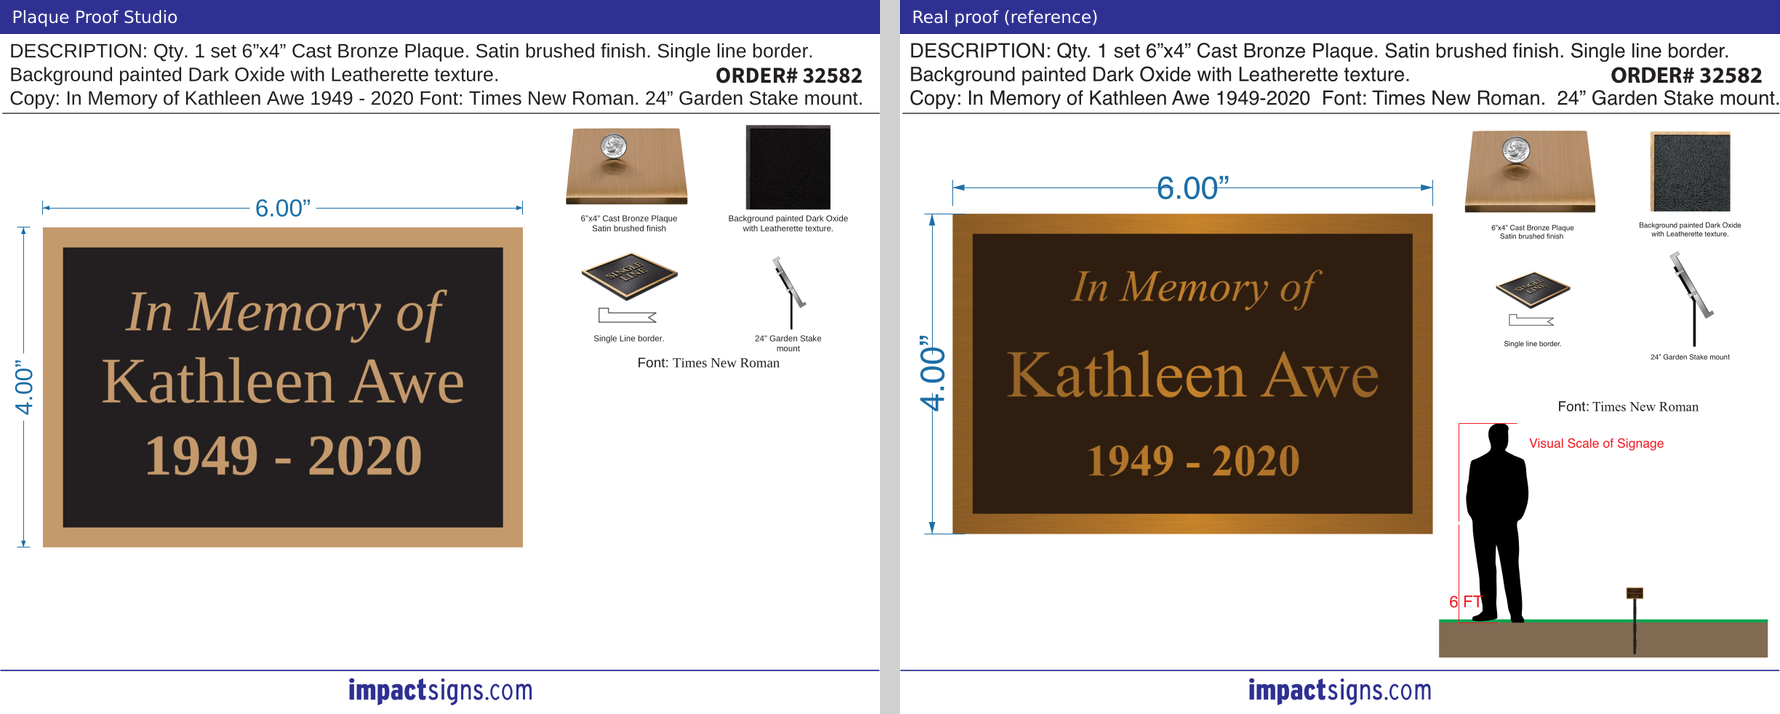
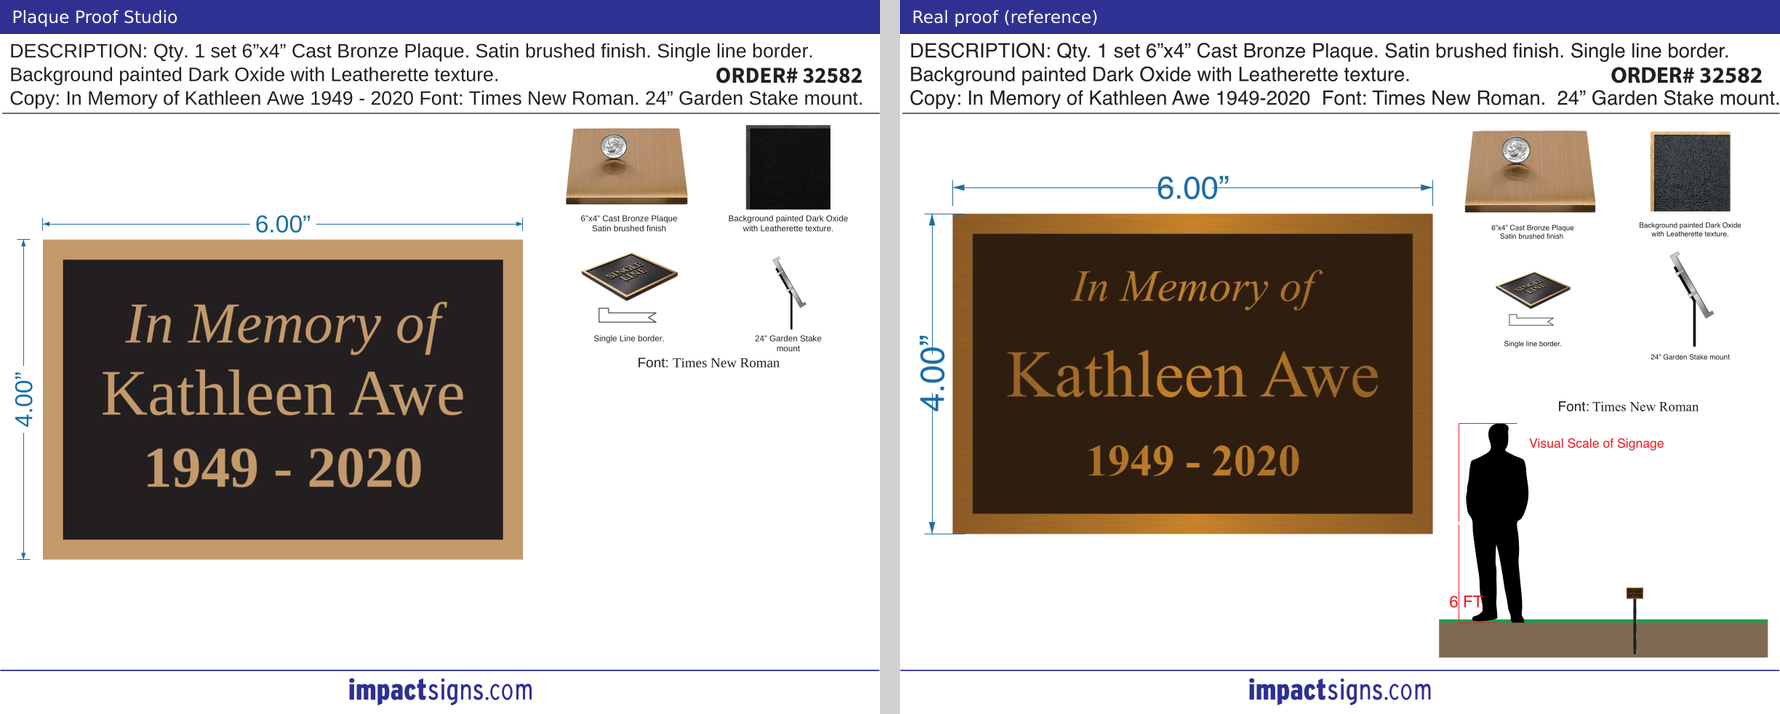
Keep Description-sheet width arrows and labels clear of the header and callout
The plaque box sat 11 pt too high, so the top dimension line and its label
collided with the header rule and description text on tall plaques. The box
is now the measured 101-557 pt, the width line sits 14 pt above it, labels
that cannot fit between their arrows step down in size, and the red minimum-
size callout is no longer covered by the option tiles.

Claude-Session: https://claude.ai/code/session_01FgTdpsUWDWm9pmiwR47UFk

diff --git a/server/pdf/proofs/description.ts b/server/pdf/proofs/description.ts
@@ -29,7 +29,7 @@ const HEADER_PITCH = 21.3;
 
 /** The plaque box of the real proofs with a right-hand panel: true size when it fits, centered at (254.6, 318). */
 export function descriptionPlaqueRect(widthIn: number, heightIn: number) {
-  const box = { cx: 254.6, cy: 318, maxW: 444, maxH: 456 };
+  const box = { cx: 254.6, cy: 329, maxW: 444, maxH: 456 };
   const s = Math.min(72, box.maxW / widthIn, box.maxH / heightIn);
   const w = widthIn * s;
   const h = heightIn * s;
@@ -107,31 +107,42 @@ export async function buildDescriptionProof(input: ProofInput): Promise<Buffer> 
   const r = descriptionPlaqueRect(spec.widthIn, spec.heightIn);
   const plaque = await plaqueJpg(doc, input.plaqueImage, r.w, r.h);
   page.drawImage(plaque, { x: r.x, y: Y(r.y + r.h), width: r.w, height: r.h });
-  const dimSize = 22;
+  // The width line sits well below the header rule (grey, 72-73.2) so its label never touches the header text.
+  // A label too long for a short span is stepped down until it fits between the arrows.
+  const DIM_SIZE = 22;
+  const DIM_GAP = 5; // line to label
+  const DIM_ARROW = 6;
+  const fitDim = (label: string, span: number) => {
+    let size = DIM_SIZE;
+    while (size > 9 && fonts.helv.widthOfTextAtSize(label, size) + 2 * (DIM_GAP + DIM_ARROW + 1) > span) size -= 0.5;
+    return size;
+  };
   // Top
-  const ty = r.y - 17.5;
+  const ty = r.y - 14;
   const wl = decimalLabel(spec.widthIn);
-  const wlw = fonts.helv.widthOfTextAtSize(wl, dimSize);
+  const wSize = fitDim(wl, r.w);
+  const wlw = fonts.helv.widthOfTextAtSize(wl, wSize);
   const midX = r.x + r.w / 2;
-  line(page, r.x, ty, midX - wlw / 2 - 5, ty, 0.5, COLORS.blue);
-  line(page, midX + wlw / 2 + 5, ty, r.x + r.w, ty, 0.5, COLORS.blue);
+  line(page, r.x, ty, midX - wlw / 2 - DIM_GAP, ty, 0.5, COLORS.blue);
+  line(page, midX + wlw / 2 + DIM_GAP, ty, r.x + r.w, ty, 0.5, COLORS.blue);
   line(page, r.x, ty - 6, r.x, ty + 6, 0.5, COLORS.blue);
   line(page, r.x + r.w, ty - 6, r.x + r.w, ty + 6, 0.5, COLORS.blue);
-  arrowhead(page, r.x, ty, -1, 0, 6, COLORS.blue);
-  arrowhead(page, r.x + r.w, ty, 1, 0, 6, COLORS.blue);
-  text(page, fonts.helv, wl, midX, ty + 7.6, dimSize, COLORS.blue, 'center');
+  arrowhead(page, r.x, ty, -1, 0, DIM_ARROW, COLORS.blue);
+  arrowhead(page, r.x + r.w, ty, 1, 0, DIM_ARROW, COLORS.blue);
+  text(page, fonts.helv, wl, midX, ty + wSize * 0.345, wSize, COLORS.blue, 'center');
   // Left (label reads bottom to top)
   const lx = r.x - 17.5;
   const hl = decimalLabel(spec.heightIn);
-  const hlw = fonts.helv.widthOfTextAtSize(hl, dimSize);
+  const hSize = fitDim(hl, r.h);
+  const hlw = fonts.helv.widthOfTextAtSize(hl, hSize);
   const midY = r.y + r.h / 2;
-  line(page, lx, r.y, lx, midY - hlw / 2 - 5, 0.5, COLORS.blue);
-  line(page, lx, midY + hlw / 2 + 5, lx, r.y + r.h, 0.5, COLORS.blue);
+  line(page, lx, r.y, lx, midY - hlw / 2 - DIM_GAP, 0.5, COLORS.blue);
+  line(page, lx, midY + hlw / 2 + DIM_GAP, lx, r.y + r.h, 0.5, COLORS.blue);
   line(page, lx - 6, r.y, lx + 6, r.y, 0.5, COLORS.blue);
   line(page, lx - 6, r.y + r.h, lx + 6, r.y + r.h, 0.5, COLORS.blue);
-  arrowhead(page, lx, r.y, 0, -1, 6, COLORS.blue);
-  arrowhead(page, lx, r.y + r.h, 0, 1, 6, COLORS.blue);
-  page.drawText(hl, { x: lx + dimSize * 0.36, y: Y(midY + hlw / 2), size: dimSize, font: fonts.helv, color: COLORS.blue, rotate: degrees(90) });
+  arrowhead(page, lx, r.y, 0, -1, DIM_ARROW, COLORS.blue);
+  arrowhead(page, lx, r.y + r.h, 0, 1, DIM_ARROW, COLORS.blue);
+  page.drawText(hl, { x: lx + hSize * 0.36, y: Y(midY + hlw / 2), size: hSize, font: fonts.helv, color: COLORS.blue, rotate: degrees(90) });
 
   // Minimum-letter-height callout (Raccoon River).
   const smallest = input.layout?.lines.reduce((a, b) => (b.size < a.size ? b : a), input.layout.lines[0]);
@@ -193,7 +204,8 @@ export async function buildDescriptionProof(input: ProofInput): Promise<Buffer> 
   };
 
   // Awe: two columns with "Font: …" underneath; Raccoon River: three columns.
-  const x0 = Math.max(r.x + r.w + 24, 425);
+  // The red callout (when there is one) keeps its own room beside the plaque, so no tile covers it.
+  const x0 = Math.max(r.x + r.w + 24, 425, callout ? r.x + r.w + 84 : 0);
   const cols = tiles.length >= 5 ? 3 : 2;
   const cw = (781 - x0) / cols;
   for (let i = 0; i < tiles.length; i++) {

diff --git a/tests/golden.test.ts b/tests/golden.test.ts
@@ -8,6 +8,7 @@ import { parseSpec, parseSize } from '../server/parse/spec';
 import { docxToText, parseWording } from '../server/parse/wording';
 import { computeLayout } from '../server/layout/engine';
 import { buildProof } from '../server/pdf/proofs/index';
+import { descriptionPlaqueRect } from '../server/pdf/proofs/description';
 import { standardPlaqueRect } from '../server/pdf/proofs/standard';
 import { etchedPlaqueRect } from '../server/pdf/proofs/etched';
 import { dimLabel } from '../server/pdf/proofs/common';
@@ -209,6 +210,16 @@ describe('proof styles', () => {
       expect(doc.getTitle()).toMatch(/12345/);
     });
   }
+
+  it('description sheet keeps the width arrows and label below the header rule, for any plaque size', () => {
+    // Header rule is at 72-73.2 pt; the width line sits 14 pt above the plaque and its 22 pt label (centered on the line) rises ~8.5 pt above it.
+    for (const [w, h] of [[12, 16], [18, 24], [6, 4], [2, 8], [40, 10], [3, 40], [42, 36]]) {
+      const r = descriptionPlaqueRect(w, h);
+      expect(r.y - 14 - 8.5, `${w}x${h} label top`).toBeGreaterThan(77);
+      expect(r.y + r.h, `${w}x${h} bottom`).toBeLessThan(560);
+      expect(r.x - 17.5 - 9, `${w}x${h} left label`).toBeGreaterThan(4);
+    }
+  });
 
   it('still builds when an icon is missing from the asset library', async () => {
     const { spec: s, layout, wording } = await heritage();

diff --git a/docs/DECISIONS.md b/docs/DECISIONS.md
@@ -152,3 +152,10 @@
 - Per-logo positions are stored with each uploaded logo and included in frozen snapshots. The ownership-checked placement route and Fix planner support independent top/bottom/left/right positions. The shared layout reserves each side before fitting text/photos and reduces logo size if needed to preserve minimum letter heights. Automatic-only jobs retain the existing measured layout. No measured proof constants changed.
 - Verification: 179 offline tests, typecheck, production build, all 11 reference sample pairs, and the expanded mock browser regression passed. Inspected the supplied logo in all three preparations, a four-sided layout and its rendered one-ink production PDF, the regenerated sample overview, and the new per-logo controls/proof screenshots. PDF review used bundled Poppler `pdftoppm` with a temporary command adapter for the app’s common `pdftocairo` arguments; no system installation or app dependency changed. The existing Audubon minimum-letter-height fit warning remains.
 - Unverified: paid image-model behavior, including Draft-quality fidelity. Offline checks prove the request contains the rules, layout and original artwork and that deterministic preparation keeps white detail; they cannot establish that the live model will reproduce every logo detail.
+
+## October 5, 2026: Description-sheet dimension arrows stay clear
+
+- The width line and its label were overlapping the grey header rule and the description text on tall plaques (e.g. 12×16): the plaque box was centered at y = 318, which put its top at 90 pt. The plaque box is now 101–557 pt (the box measured on the real proofs; `descriptionPlaqueRect`), and the width line sits 14 pt above the plaque, so the 22 pt label clears the rule by about 5 pt.
+- A dimension label that does not fit between its arrows (a very narrow or short plaque) steps down in size (to 9 pt at the smallest) instead of overlapping the arrows. Labels stay on the page edge-safe on the left.
+- The red "¼” tall minimum" callout is no longer covered by the option tiles: the tiles start 84 pt right of the plaque when the callout is present.
+- Checked on 12×16, 18×24, 6×4, 2×8, 40×10, 0.9×6 and the Raccoon River sample. The standard and etched proofs are unchanged.
